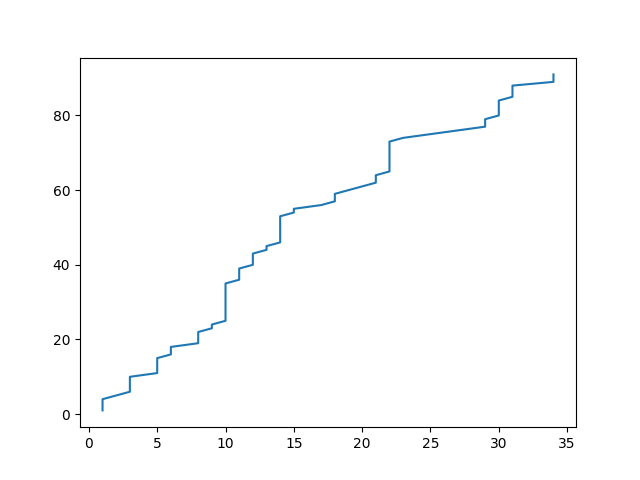
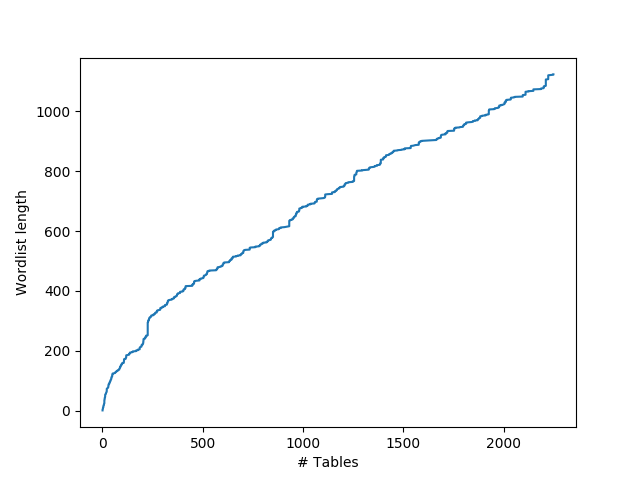
Add x y labels

diff --git a/etl/wordlist.py b/etl/wordlist.py
@@ -1,8 +1,8 @@
 import json
 import os
 import operator
-# import matplotlib
-# matplotlib.use('TkAgg')
+import matplotlib
+matplotlib.use('TkAgg')
 import matplotlib.pyplot as plt
 from .table import Table, satisfy_variants
 
@@ -38,4 +38,6 @@ if __name__ == '__main__':
     word_count = sorted(word_count.items(), key=operator.itemgetter(1), reverse=True)
     print(word_count)
     plt.plot(x, y)
+    plt.xlabel('# Tables')
+    plt.ylabel('Wordlist length')
     plt.savefig('etl/wordlist.png')
